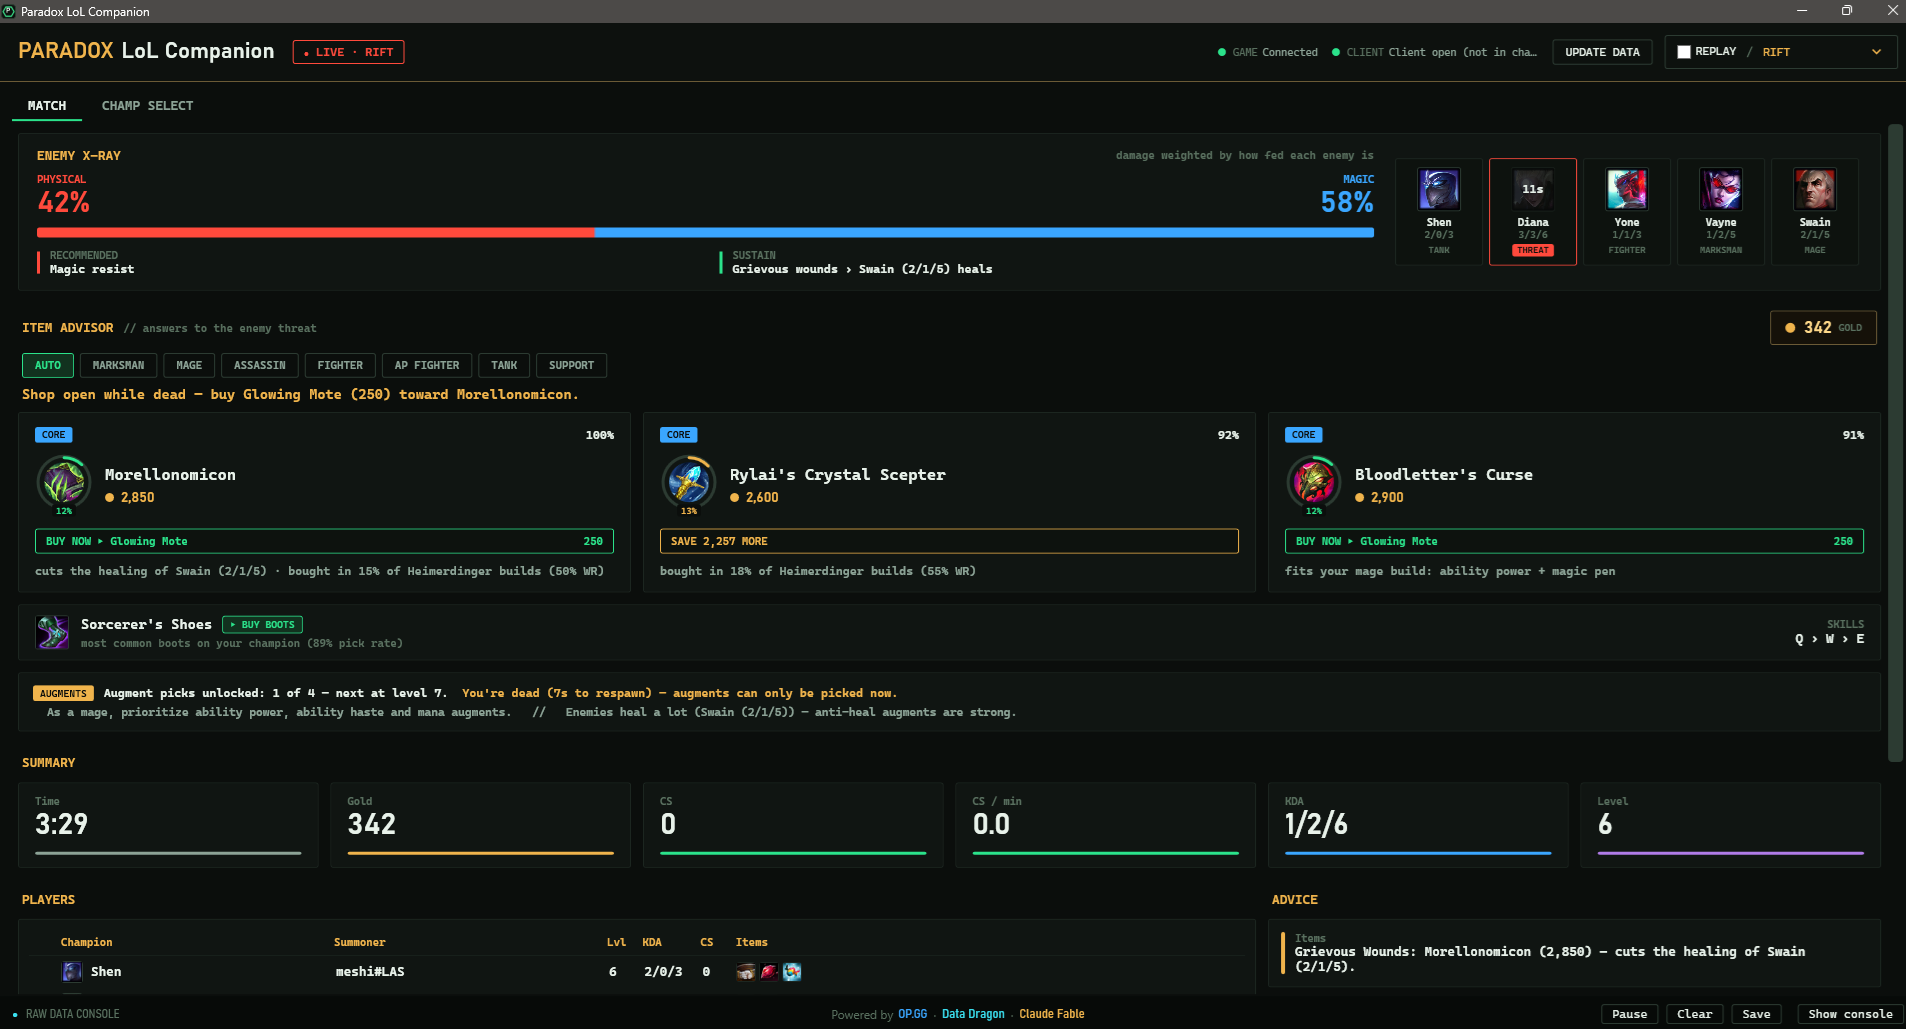
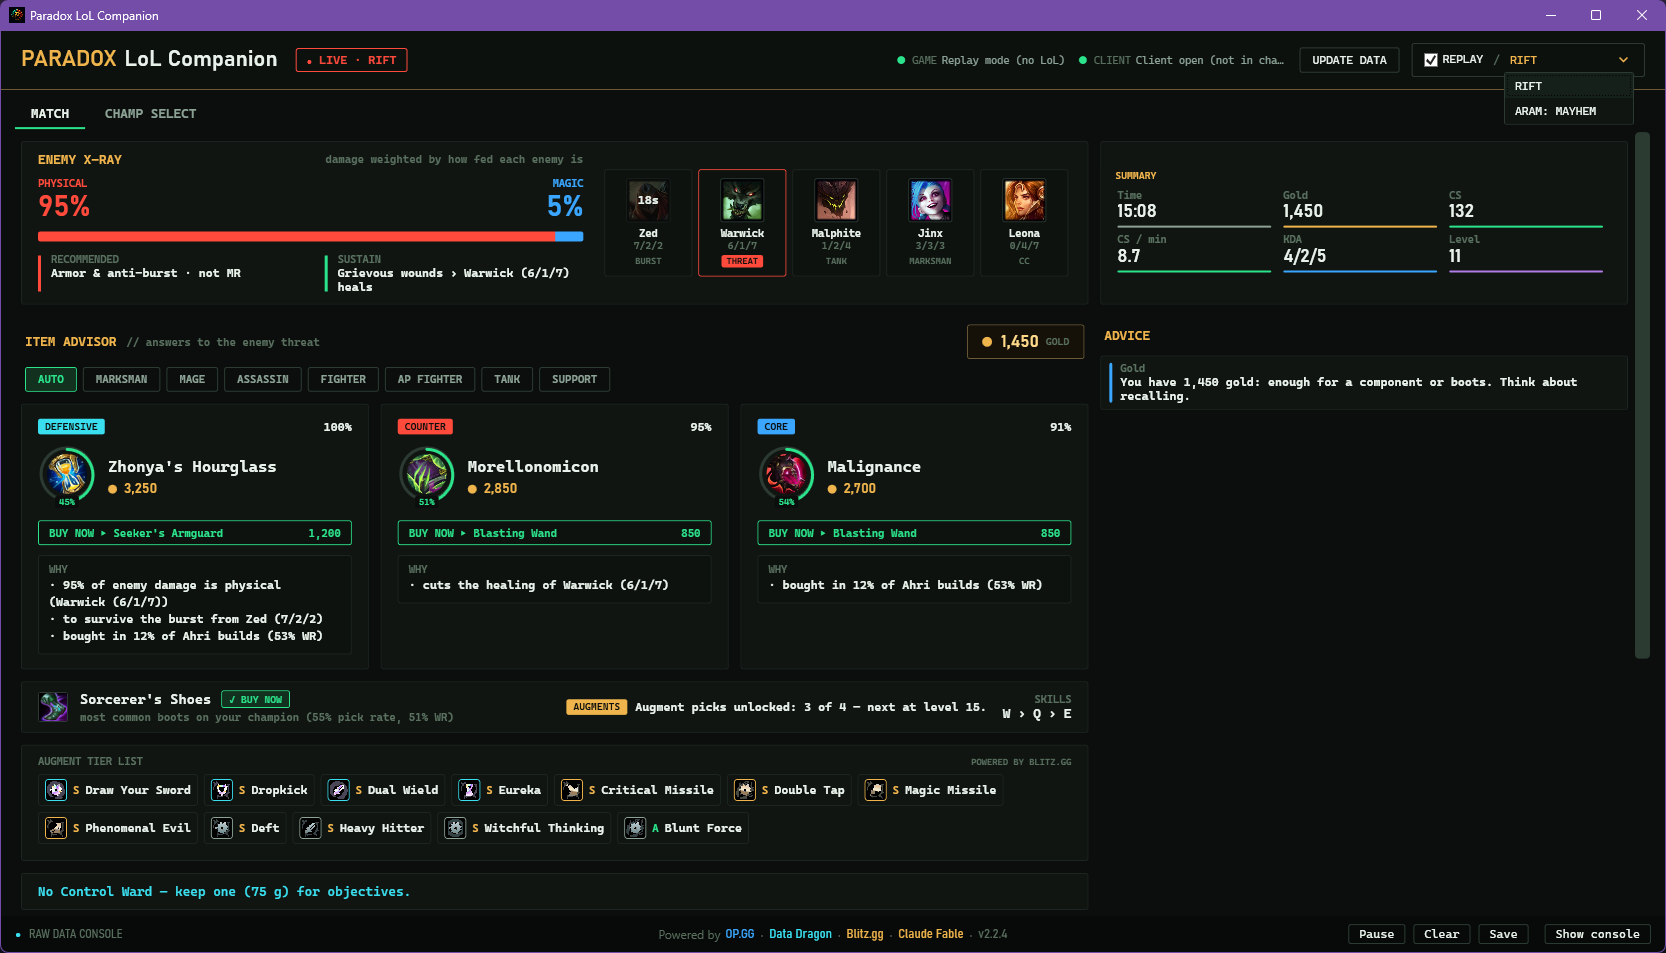
docs: refresh README and screenshots (Mayhem tracker, overlay, badges)
New replay-mode captures: the Rift MATCH tab (replacing the outdated shot),
the ARAM: Mayhem tab with the augment tracker + Blitz cheat-sheet during the
pick window, and the Ctrl+X overlay with the recommended augments strip.

README: document the overlay and the on-card tier badges (What it does +
Mayhem section, including the OCR-driven open/close lifecycle), fix the
"no overlay" wording now that there is a non-injected one, add
PickWindowTracker and the overlay/badge windows to the architecture tree,
and update stale test counts (236/349 -> 373).

diff --git a/README.md b/README.md
@@ -5,16 +5,28 @@ game's **local APIs live** and turns them into actionable, explained advice — 
 **item advisor** as its core: every recommendation tells you *why*, reacting in real time
 to how fed each enemy is, what they're building, and what you're actually building.
 
-No overlay, no injection, no reading game memory: everything comes from the two official
-local HTTP APIs that Riot ships with the game, plus public static data. It's a second
-screen, not a mod.
+No injection, no reading game memory: everything comes from the two official local HTTP
+APIs that Riot ships with the game, plus public static data. It's a second screen, not a
+mod — and the optional in-game overlay (Ctrl+X) is a plain always-on-top window drawn by
+Windows, never injected into the game.
 
 > **Download:** grab the installer from
 > [**Releases**](https://github.com/Danielxpj/Paradox-LoL-Companion/releases) →
 > `ParadoxLoLCompanion-Setup-<version>.exe`. Installs per-user (no admin) and
 > **auto-updates itself** on launch.
 
-![Paradox LoL Companion — Tactical HUD: enemy X-ray, item advisor with reasons and buy-now plans, Mayhem augment tracker](docs/img/screenshot.png)
+![Paradox LoL Companion — Tactical HUD: enemy X-ray, item advisor with reasons and buy-now plans](docs/img/screenshot.png)
+
+**ARAM: Mayhem** — augment pick tracker, Blitz tier cheat-sheet (★ = ranked top for your
+champion) and the pick-now window while you're dead:
+
+![ARAM: Mayhem — augment tracker, Blitz cheat-sheet and pick window](docs/img/mayhem.png)
+
+**In-game overlay (Ctrl+X)** — top item recommendations with their reasons and buy-now
+plans, build override, recommended boots, and the recommended augments during a Mayhem
+pick window:
+
+![In-game overlay — item advisor with reasons, boots and recommended augments](docs/img/overlay.png)
 
 ---
 
@@ -69,7 +81,13 @@ screen, not a mod.
   levels 7/11/15, only redeemable while dead) and gives archetype/threat-tuned guidance.
   Plus: a **Blitz.gg tier-list cheat-sheet** (S/A augments per rarity, ★ for your champion,
   cached per patch) and **on-screen offer detection** — while you pick, the app OCRs the
-  game window, recognizes the augments offered and marks the best one (**◆ PICK THIS**).
+  game window, recognizes the augments offered, marks the best one (**◆ PICK THIS**) and
+  pins a **tier badge directly over each card** via a click-through topmost window. Once
+  you pick, everything clears itself within ~3 seconds.
+- **In-game overlay (Ctrl+X)** — a compact, draggable always-on-top panel with the top
+  item recommendations (reasons included), the build override selector, the recommended
+  boots, and the offered/recommended augments during a Mayhem pick window. Requires
+  Borderless/Windowed (in exclusive Fullscreen, Windows draws no windows over the game).
 - **Champ select bench advisor (ARAM)** — scores your team composition and tells you which
   bench champion balances the team best, with reasons.
 - **Quality-of-life advice no app gives** — full-inventory handling (flags items you have
@@ -94,7 +112,7 @@ your client language — players are matched via locale-independent ids.
 ## Architecture
 
 Two projects with a hard boundary: **Core has no UI dependency and is fully testable**
-(236 xUnit tests); the WPF app is a thin MVVM shell over it.
+(373 xUnit tests); the WPF app is a thin MVVM shell over it.
 
 ```
 src/
@@ -109,15 +127,17 @@ src/
     Stats/            OpggMcpClient · McpTextParser · StatsCache · StatsProvider ·
                       ItemSetBuilder (meta stats layer)
     Draft/            TeamBalanceAdvisor (ARAM bench)
-    Mayhem/           MayhemAdvisor (augment tracker + Blitz-ranked cheat-sheet)
+    Mayhem/           MayhemAdvisor (augment tracker + Blitz-ranked cheat-sheet) ·
+                      PickWindowTracker (pick-window lifecycle: grace + OCR-driven close)
     Augments/         Blitz tier list (client/parser/cache/provider) + OCR matcher/detector
     Advice/           rule-based general advice feed (objectives, CS/min, gold)
     Objectives/       Dragon/Baron timer estimates
   ParadoxLoLCompanion.App/           # WPF, MVVM, dark "Tactical HUD" theme
     Capture/          game-window capture (PrintWindow) + Windows OCR reader
     Update/           Updater (self-update on launch) + splash
+    OverlayWindow · AugmentBadgeWindow   # Ctrl+X overlay + click-through on-card badges
 tests/
-  ParadoxLoLCompanion.Tests/         # 349 tests: parsers, engine, planners, stats, LCU
+  ParadoxLoLCompanion.Tests/         # 373 tests: parsers, engine, planners, stats, LCU
 ```
 
 Data flow, once per tick (~1 s):
@@ -391,9 +411,15 @@ On top of that, two data-driven layers (added 2026-07-17):
   aliases pulled from CommunityDragon's arena data for the Arena-shared augments —
   Mayhem-only ones match by their English names). Two or more distinct matches are
   treated as the real offer, ranked by Blitz tier, and the best is marked
-  **◆ PICK THIS** in the overlay and MATCH tab. No card geometry is assumed, so any
+  **◆ PICK THIS** in the overlay and MATCH tab — plus a **tier badge pinned over each
+  card**, anchored on the OCR word bounding boxes and drawn on a click-through topmost
+  window (the game receives every click). No card geometry is assumed, so any
   resolution works; in exclusive Fullscreen the capture is black and the feature
-  silently stands down to the cheat-sheet.
+  silently stands down to the cheat-sheet. The offer's lifecycle is OCR-driven both
+  ways: sighting the cards opens the panels (and keeps them alive across your respawn,
+  since the picker stays open until you choose), and once you pick, a few consecutive
+  empty reads close everything within ~3 seconds — with no flicker in between, panels
+  and badges only redraw when the offer actually changes.
 
 ## Writing back to the client: rune pages & item sets
 
@@ -439,7 +465,7 @@ Requirements: **.NET 10 SDK** (WindowsDesktop/WPF workload), Windows.
 
 ```powershell
 dotnet build ParadoxLoLCompanion.slnx        # build
-dotnet test                                  # 349 tests (parsers, engine, planners, stats)
+dotnet test                                  # 373 tests (parsers, engine, planners, stats)
 dotnet run --project src/ParadoxLoLCompanion.App
 ```
 